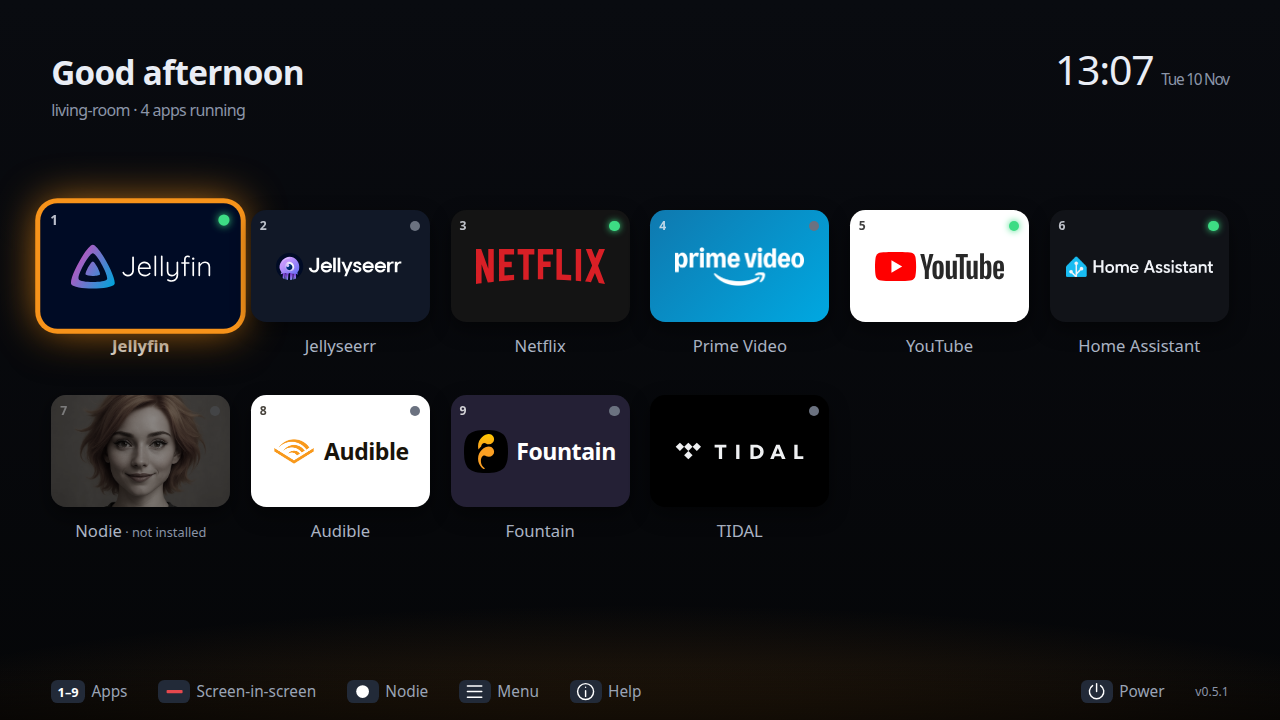
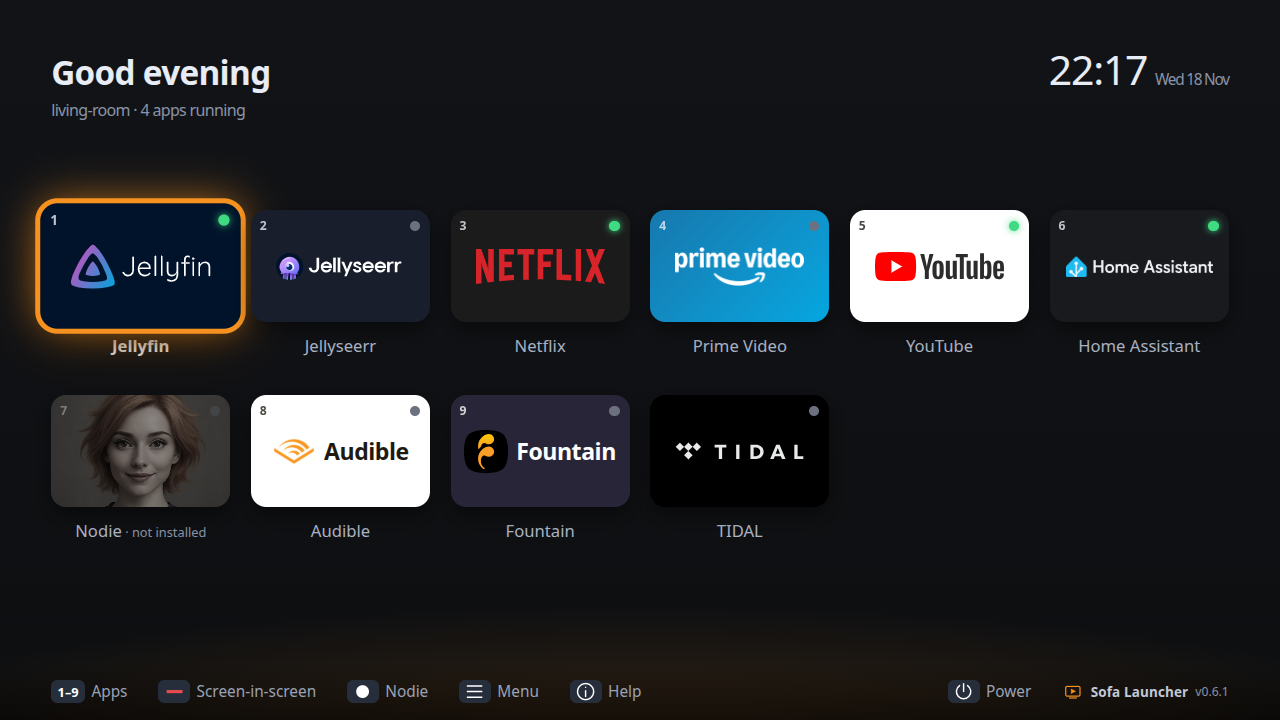
Show the Sofa Launcher mark and name beside the version on Home
The bottom-right corner of the home screen showed only the version
number. It now shows the app's mark (the icon's screen-and-play glyph, in
the theme accent), the name and the version together.

Screenshots regenerated with demo data.

diff --git a/src/renderer/src/App.svelte b/src/renderer/src/App.svelte
@@ -244,7 +244,15 @@
     {#each footerButtons as button, index}
       <button class="footer-button" class:right={button.action === 'power'} class:focused={footerFocus === index} onclick={() => { footerFocus = index; if (button.action === 'cameraToggle') void window.sofa.pipShow(); else void window.sofa.activateAction(button.action); }}><span class="k"><RemoteIcon name={button.icon} /></span>{button.label}</button>
     {/each}
-    <span class="version">v{version}</span>
+    <span class="brand">
+      <svg class="brand-mark" viewBox="0 0 512 512" aria-hidden="true">
+        <rect x="88" y="128" width="336" height="228" rx="36" fill="none" stroke="currentColor" stroke-width="28"/>
+        <path d="M220 196 L312 242 L220 288 Z" fill="currentColor" stroke="currentColor" stroke-width="16" stroke-linejoin="round"/>
+        <path d="M176 400 H336" stroke="currentColor" stroke-width="28" stroke-linecap="round"/>
+      </svg>
+      <span class="brand-name">Sofa Launcher</span>
+      <span class="version">v{version}</span>
+    </span>
   </footer>
 </main>
 
@@ -299,7 +307,11 @@
   .empty { grid-column: 1 / -1; font-size: 1.6rem; color: var(--muted); }
   .hints { position: absolute; left: 0; right: 0; bottom: 0; padding: 1.3rem 4rem; display: flex; gap: 2.4rem;
            font-size: 1.2rem; color: #9aa4b6; background: linear-gradient(transparent, rgba(0, 0, 0, 0.55)); }
-  .version { align-self: center; font-size: 0.95rem; color: var(--muted); }
+  /* The app's own mark, quiet enough not to compete with the tiles or the footer hints. */
+  .brand { align-self: center; display: inline-flex; align-items: center; gap: 0.55rem; white-space: nowrap; }
+  .brand-mark { width: 1.7rem; height: 1.7rem; color: var(--accent); }
+  .brand-name { font-size: 1.05rem; font-weight: 600; letter-spacing: 0.01em; color: #c3cad8; }
+  .version { font-size: 0.95rem; color: var(--muted); }
   .right { margin-left: auto; }
   .footer-button { all:unset; display:inline-flex; align-items:center; border-radius:0.6rem; padding:0.4rem 0.6rem; margin:-0.4rem -0.6rem; }
   .footer-button.right { margin-left:auto; }
